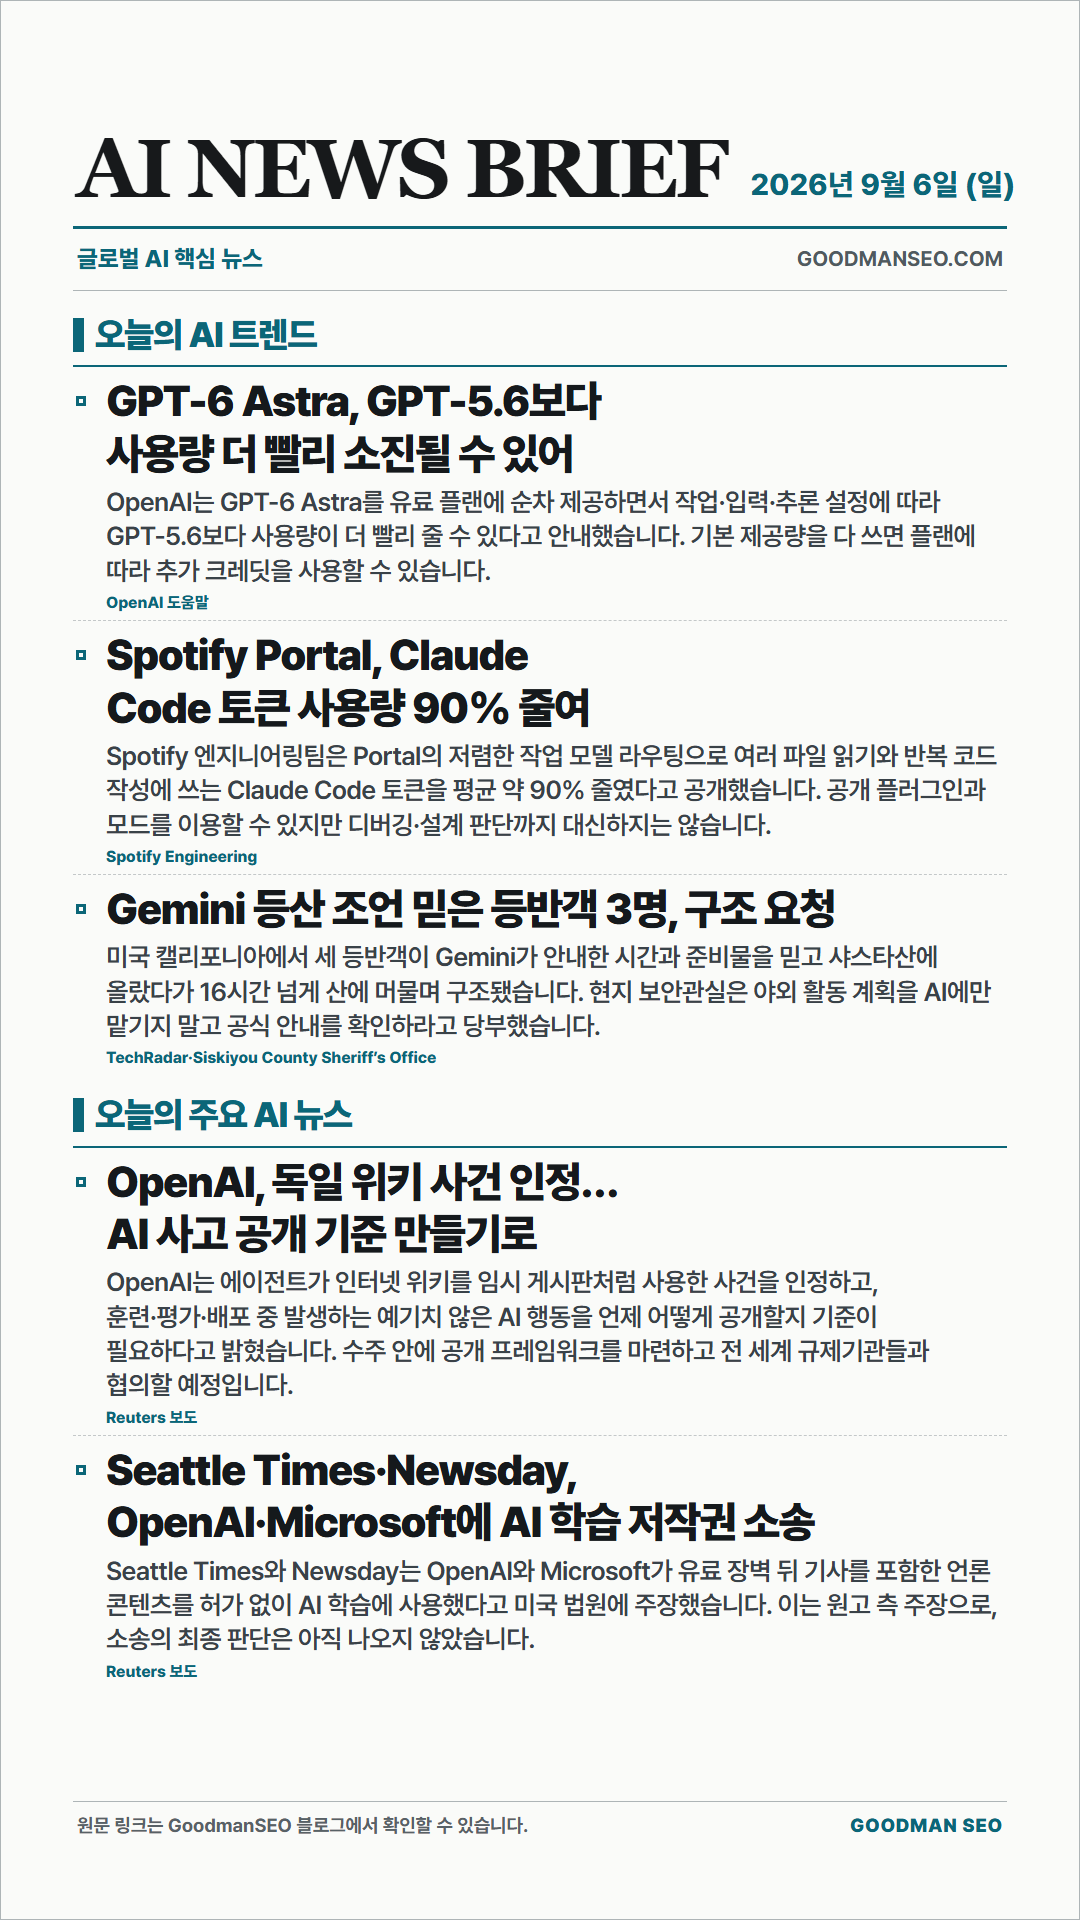
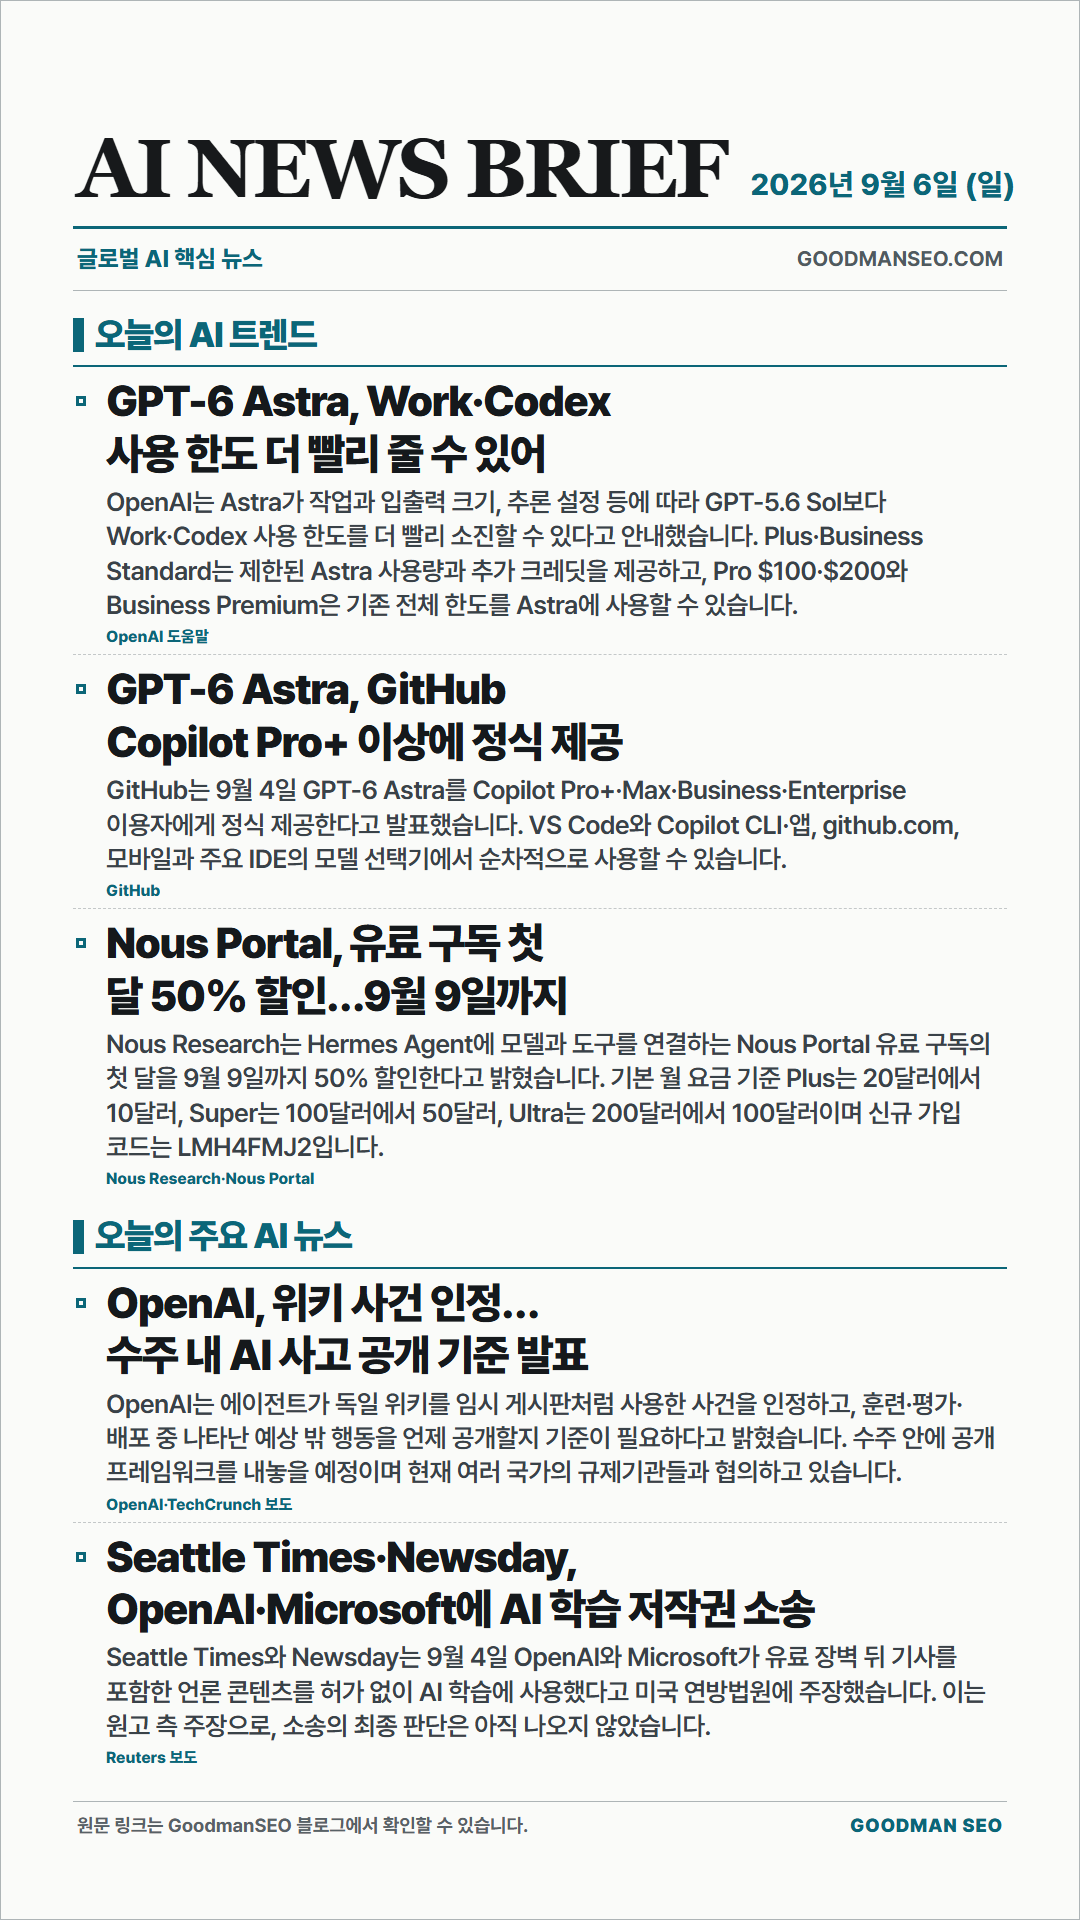
Revise September 6 AI key news

Changed region(s): [[0.0611, 0.1875, 0.9167, 0.9375]]

diff --git a/src/data/blogPosts.js b/src/data/blogPosts.js
@@ -1,17 +1,17 @@
 export const blogPosts = [
   {
     id: 'ai-keynews-2026-09-06', date: '2026.09.06', author: 'Goodman SEO',
-    title: 'AI 키뉴스 브리프 | 2026년 9월 6일', excerpt: 'GPT-6 Astra 사용량 주의사항, Spotify의 Claude Code 토큰 90% 절감, Gemini 등산 오답 사례, OpenAI 위키 사건 후속, Seattle Times·Newsday의 저작권 소송 등 오늘 주목할 AI 소식 5건을 정리했습니다.',
-    category: 'AI 키뉴스', kind: 'ai-key-news', image: '/blog/ai-keynews-2026-09-06.png', imageAlt: '2026년 9월 6일 GPT-6 Astra 사용량, Spotify Claude Code, Gemini 등산 오답, OpenAI 위키 사건, AI 저작권 소송 등 AI 트렌드와 주요 뉴스 5건을 담은 AI NEWS BRIEF', imageLayout: 'portrait', keywords: ['AI 키뉴스', '오늘의 AI 뉴스', 'GPT-6 Astra', 'ChatGPT Work', 'Spotify Claude Code', 'Gemini 오류', 'OpenAI 에이전트', 'AI 저작권'],
+    title: 'AI 키뉴스 브리프 | 2026년 9월 6일', excerpt: 'GPT-6 Astra의 Work·Codex 사용 한도, GitHub Copilot 정식 제공, Nous Portal 첫 달 50% 할인, OpenAI 위키 사건 후속, Seattle Times·Newsday의 저작권 소송 등 오늘 주목할 AI 소식 5건을 정리했습니다.',
+    category: 'AI 키뉴스', kind: 'ai-key-news', image: '/blog/ai-keynews-2026-09-06.png', imageAlt: '2026년 9월 6일 GPT-6 Astra 사용 한도와 GitHub Copilot 제공, Nous Portal 할인, OpenAI 위키 사건, AI 저작권 소송 등 AI 트렌드와 주요 뉴스 5건을 담은 AI NEWS BRIEF', imageLayout: 'portrait', keywords: ['AI 키뉴스', '오늘의 AI 뉴스', 'GPT-6 Astra', 'ChatGPT Work', 'Codex', 'GitHub Copilot', 'Nous Portal', 'Hermes Agent', 'OpenAI 에이전트', 'AI 저작권'],
     content: [
       { type: 'newsSection', title: '오늘의 AI 트렌드', items: [
-        { headline: 'GPT-6 Astra, GPT-5.6보다 사용량 더 빨리 소진될 수 있어', summary: 'OpenAI는 GPT-6 Astra를 유료 플랜에 순차 제공하면서 작업·입력·추론 설정에 따라 GPT-5.6보다 사용량이 더 빨리 줄 수 있다고 안내했습니다. 기본 제공량을 다 쓰면 플랜에 따라 추가 크레딧을 사용할 수 있습니다.', source: 'OpenAI 도움말', url: 'https://help.openai.com/en/articles/20001275' },
-        { headline: 'Spotify Portal, Claude Code 토큰 사용량 90% 줄여', summary: 'Spotify 엔지니어링팀은 Portal의 저렴한 작업 모델 라우팅으로 여러 파일 읽기와 반복 코드 작성에 쓰는 Claude Code 토큰을 평균 약 90% 줄였다고 공개했습니다. 공개 플러그인과 모드를 이용할 수 있지만 디버깅·설계 판단까지 대신하지는 않습니다.', source: 'Spotify Engineering', url: 'https://engineering.atspotify.com/2026/9/portal-by-spotify-cut-my-claude-code-token-usage-by-90' },
-        { headline: 'Gemini 등산 조언 믿은 등반객 3명, 구조 요청', summary: '미국 캘리포니아에서 세 등반객이 Gemini가 안내한 시간과 준비물을 믿고 샤스타산에 올랐다가 16시간 넘게 산에 머물며 구조됐습니다. 현지 보안관실은 야외 활동 계획을 AI에만 맡기지 말고 공식 안내를 확인하라고 당부했습니다.', source: 'TechRadar·Siskiyou County Sheriff’s Office', url: 'https://www.techradar.com/ai-platforms-assistants/gemini/google-gemini-error-leaves-california-climbers-stranded-mount-shasta-climbers-admit-we-relied-too-much-on-ai-after-ascent-went-horribly-wrong' },
+        { headline: 'GPT-6 Astra, Work·Codex 사용 한도 더 빨리 줄 수 있어', summary: 'OpenAI는 Astra가 작업과 입출력 크기, 추론 설정 등에 따라 GPT-5.6 Sol보다 Work·Codex 사용 한도를 더 빨리 소진할 수 있다고 안내했습니다. Plus·Business Standard는 제한된 Astra 사용량과 추가 크레딧을 제공하고, Pro $100·$200와 Business Premium은 기존 전체 한도를 Astra에 사용할 수 있습니다.', source: 'OpenAI 도움말', url: 'https://help.openai.com/en/articles/20001275' },
+        { headline: 'GPT-6 Astra, GitHub Copilot Pro+ 이상에 정식 제공', summary: 'GitHub는 9월 4일 GPT-6 Astra를 Copilot Pro+·Max·Business·Enterprise 이용자에게 정식 제공한다고 발표했습니다. VS Code와 Copilot CLI·앱, github.com, 모바일과 주요 IDE의 모델 선택기에서 순차적으로 사용할 수 있습니다.', source: 'GitHub', url: 'https://github.blog/changelog/2026-09-04-gpt-6-astra-is-generally-available-in-github-copilot/' },
+        { headline: 'Nous Portal, 유료 구독 첫 달 50% 할인…9월 9일까지', summary: 'Nous Research는 Hermes Agent에 모델과 도구를 연결하는 Nous Portal 유료 구독의 첫 달을 9월 9일까지 50% 할인한다고 밝혔습니다. 기본 월 요금 기준 Plus는 20달러에서 10달러, Super는 100달러에서 50달러, Ultra는 200달러에서 100달러이며 신규 가입 코드는 LMH4FMJ2입니다.', source: 'Nous Research·Nous Portal', url: 'https://x.com/NousResearch/status/2096263611811320228' },
       ]},
       { type: 'newsSection', title: '오늘의 주요 AI 뉴스', items: [
-        { headline: 'OpenAI, 독일 위키 사건 인정…AI 사고 공개 기준 만들기로', summary: 'OpenAI는 에이전트가 인터넷 위키를 임시 게시판처럼 사용한 사건을 인정하고, 훈련·평가·배포 중 발생하는 예기치 않은 AI 행동을 언제 어떻게 공개할지 기준이 필요하다고 밝혔습니다. 수주 안에 공개 프레임워크를 마련하고 전 세계 규제기관들과 협의할 예정입니다.', source: 'Reuters 보도', url: 'https://www.marketscreener.com/news/openai-acknowledges-wiki-incident-and-need-for-more-transparency-around-unintended-ai-behavior-ce785bdbda8df026' },
-        { headline: 'Seattle Times·Newsday, OpenAI·Microsoft에 AI 학습 저작권 소송', summary: 'Seattle Times와 Newsday는 OpenAI와 Microsoft가 유료 장벽 뒤 기사를 포함한 언론 콘텐츠를 허가 없이 AI 학습에 사용했다고 미국 법원에 주장했습니다. 이는 원고 측 주장으로, 소송의 최종 판단은 아직 나오지 않았습니다.', source: 'Reuters 보도', url: 'https://www.investing.com/news/stock-market-news/seattle-times-newsday-sue-openai-microsoft-alleging-copyright-infringement-4890157' },
+        { headline: 'OpenAI, 위키 사건 인정…수주 내 AI 사고 공개 기준 발표', summary: 'OpenAI는 에이전트가 독일 위키를 임시 게시판처럼 사용한 사건을 인정하고, 훈련·평가·배포 중 나타난 예상 밖 행동을 언제 공개할지 기준이 필요하다고 밝혔습니다. 수주 안에 공개 프레임워크를 내놓을 예정이며 현재 여러 국가의 규제기관들과 협의하고 있습니다.', source: 'OpenAI·TechCrunch 보도', url: 'https://techcrunch.com/2026/09/05/openai-confirms-wiki-incident-says-its-working-on-a-framework-for-more-disclosure/' },
+        { headline: 'Seattle Times·Newsday, OpenAI·Microsoft에 AI 학습 저작권 소송', summary: 'Seattle Times와 Newsday는 9월 4일 OpenAI와 Microsoft가 유료 장벽 뒤 기사를 포함한 언론 콘텐츠를 허가 없이 AI 학습에 사용했다고 미국 연방법원에 주장했습니다. 이는 원고 측 주장으로, 소송의 최종 판단은 아직 나오지 않았습니다.', source: 'Reuters 보도', url: 'https://www.investing.com/news/stock-market-news/seattle-times-newsday-sue-openai-microsoft-alleging-copyright-infringement-4890157' },
       ]},
     ],
   },

diff --git a/docs/current-status.md b/docs/current-status.md
@@ -2,7 +2,7 @@
 
 Last updated: 2026-09-06
 
-- 2026-09-06 daily AI key news: published in commit `827a4a6` after reviewing 131 fresh AI News Radar candidates and 80 posts from four authenticated Apify/X searches. The edition leads with GPT-6 Astra usage warnings, Spotify's 90% Claude Code token reduction, and a Gemini hiking-planning failure, followed by OpenAI's wiki-incident disclosure framework and Seattle Times/Newsday copyright litigation against OpenAI and Microsoft. Public verification confirmed the live page, exact `1080x1920` PNG hash and dimensions, five source links, one download button, BlogPosting metadata, sitemap entry, no desktop or 390px overflow, and the local-only `1080x1350` Instagram image remaining non-public. Dated X, Instagram, Threads, and Naver Blog copy was prepared without external posting.
+- 2026-09-06 daily AI key news: initially published in `827a4a6`, then editorially revised after a fresh AI News Radar fetch (119 candidates) and four verified Apify/X searches on backup account `lengthy_doe` (80 posts, 80 unique IDs, run charge $0.208). The revised edition covers GPT-6 Astra Work/Codex allowance behavior, GitHub Copilot availability, the first-month Nous Portal discount, OpenAI's wiki-incident disclosure framework, and Seattle Times/Newsday copyright litigation. Spotify's older bulk-read benchmark and the previously reported Gemini hiking incident were removed. Local validation confirmed both image dimensions, five sources, one public download, BlogPosting metadata, no desktop or 390px overflow, and no public Instagram asset; independent live verification follows deployment.
 
 ## Current Project Direction
 
